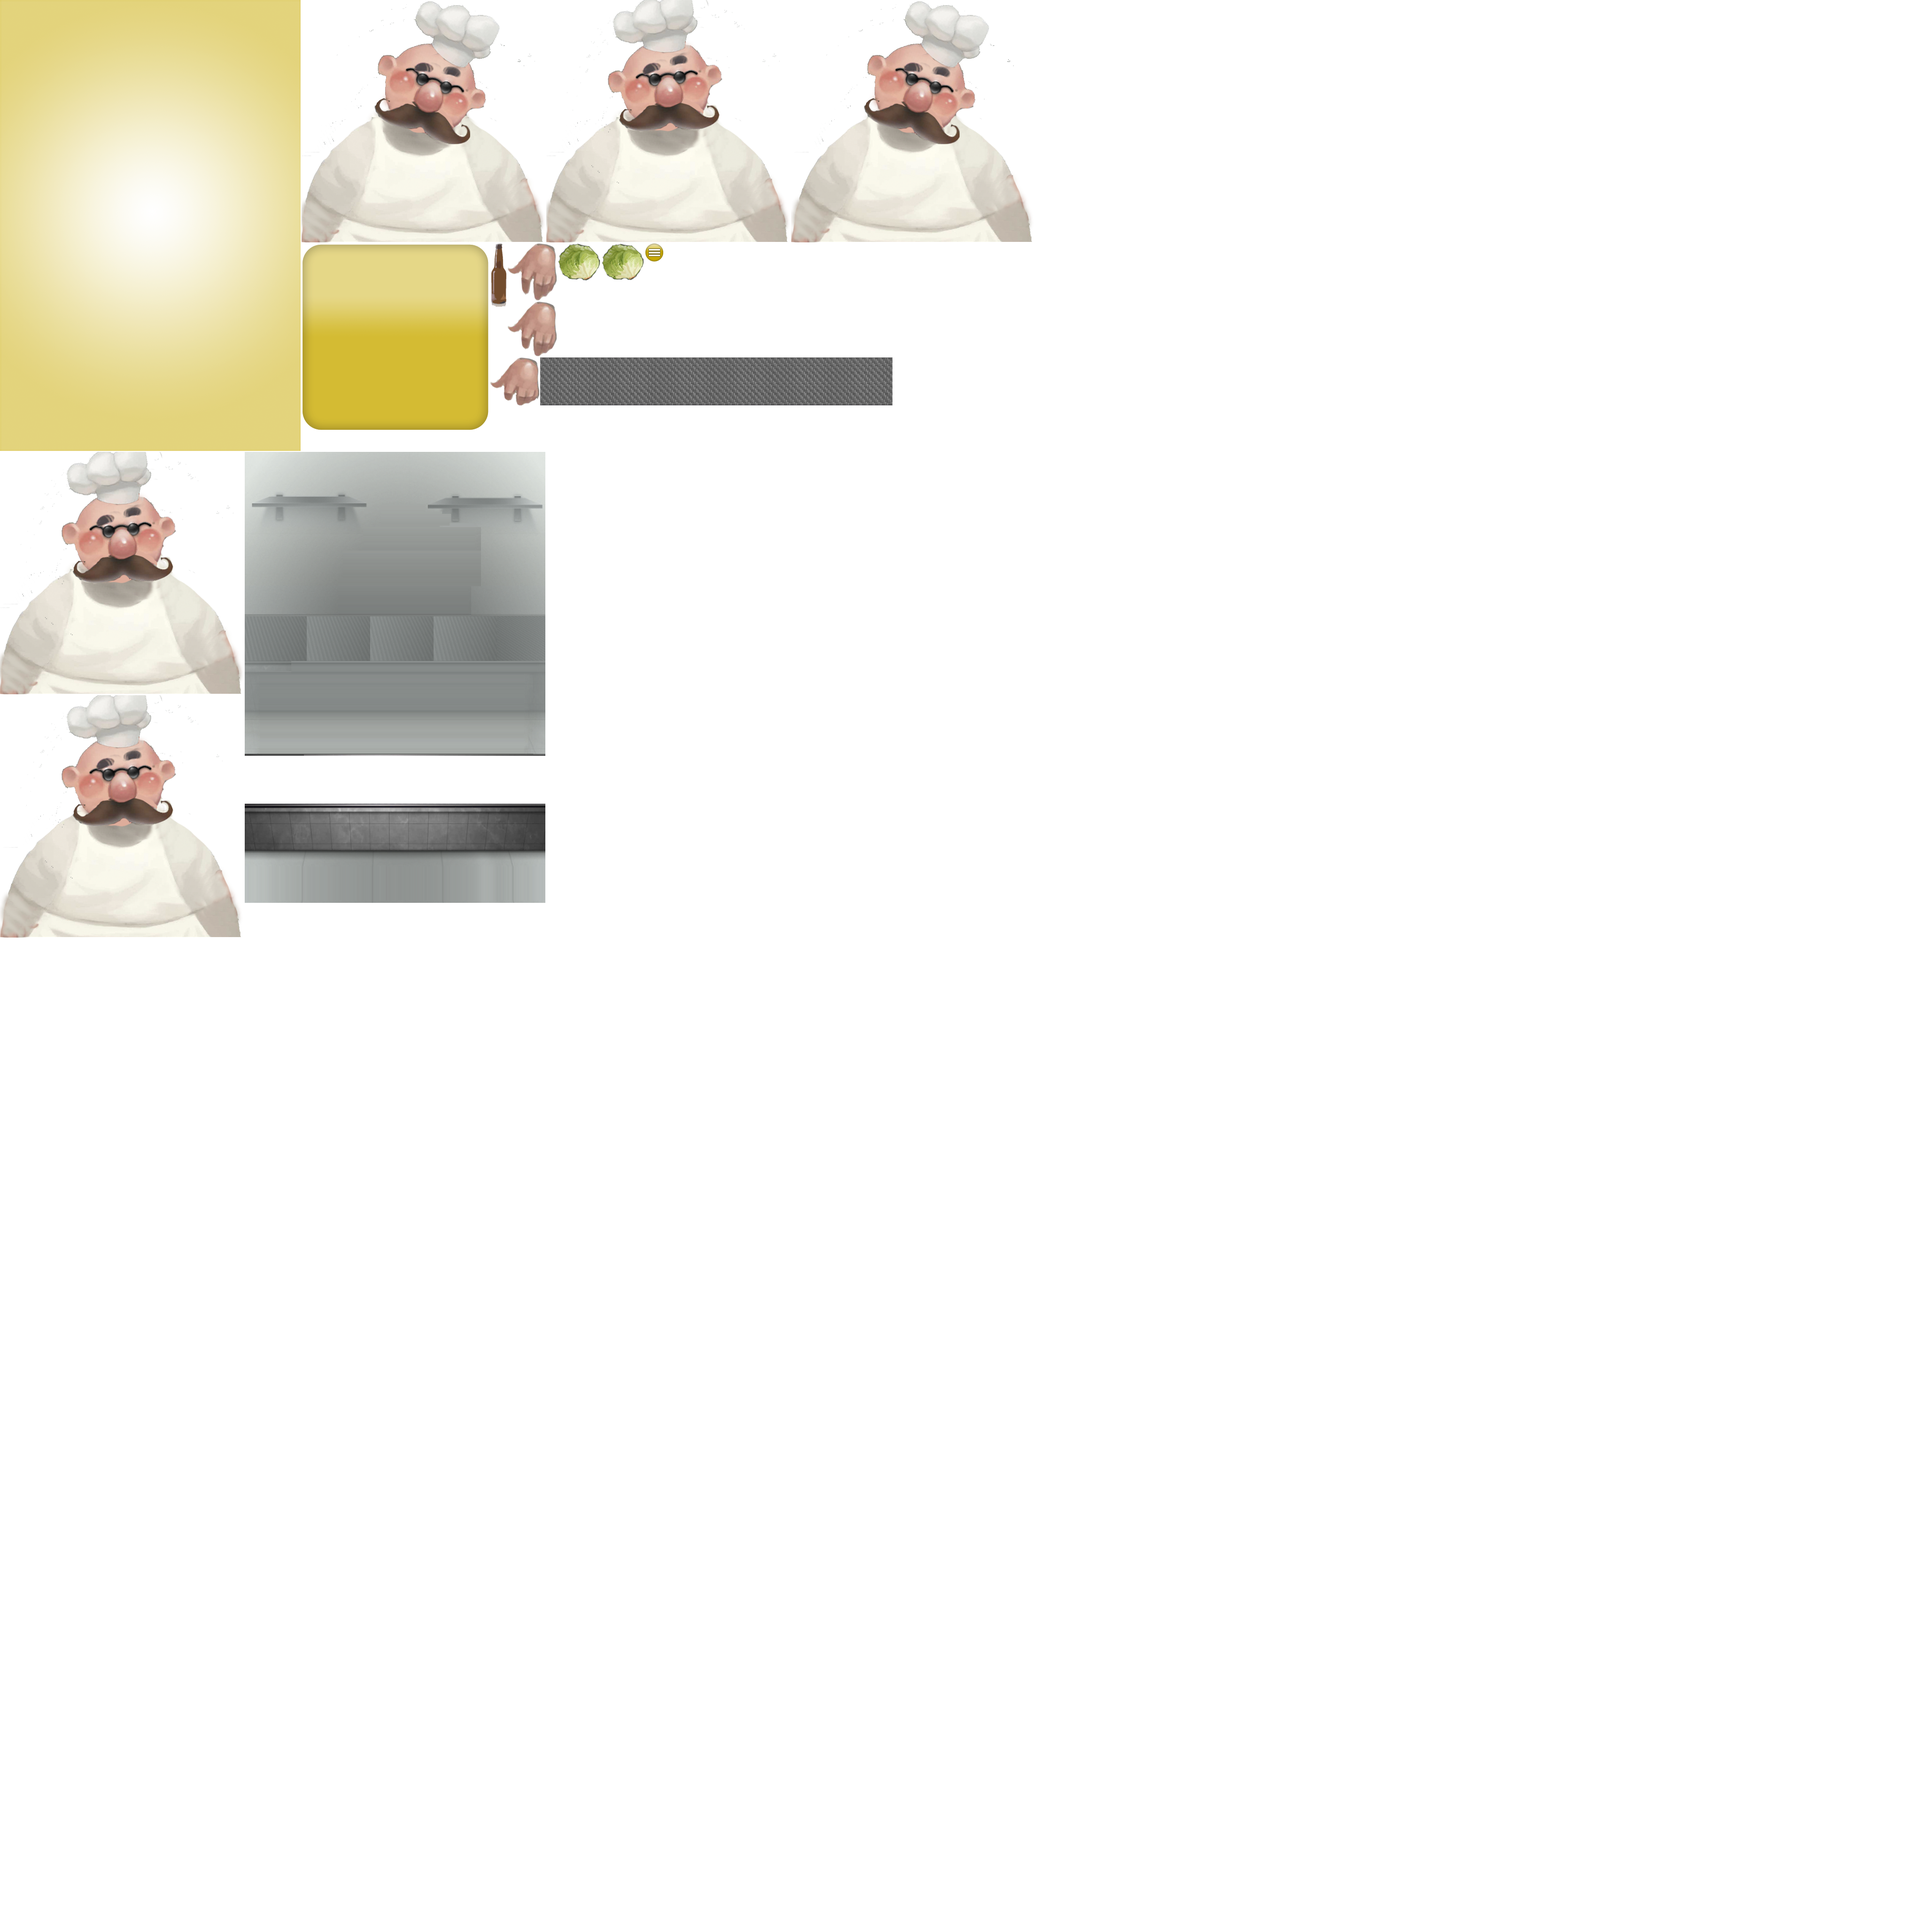
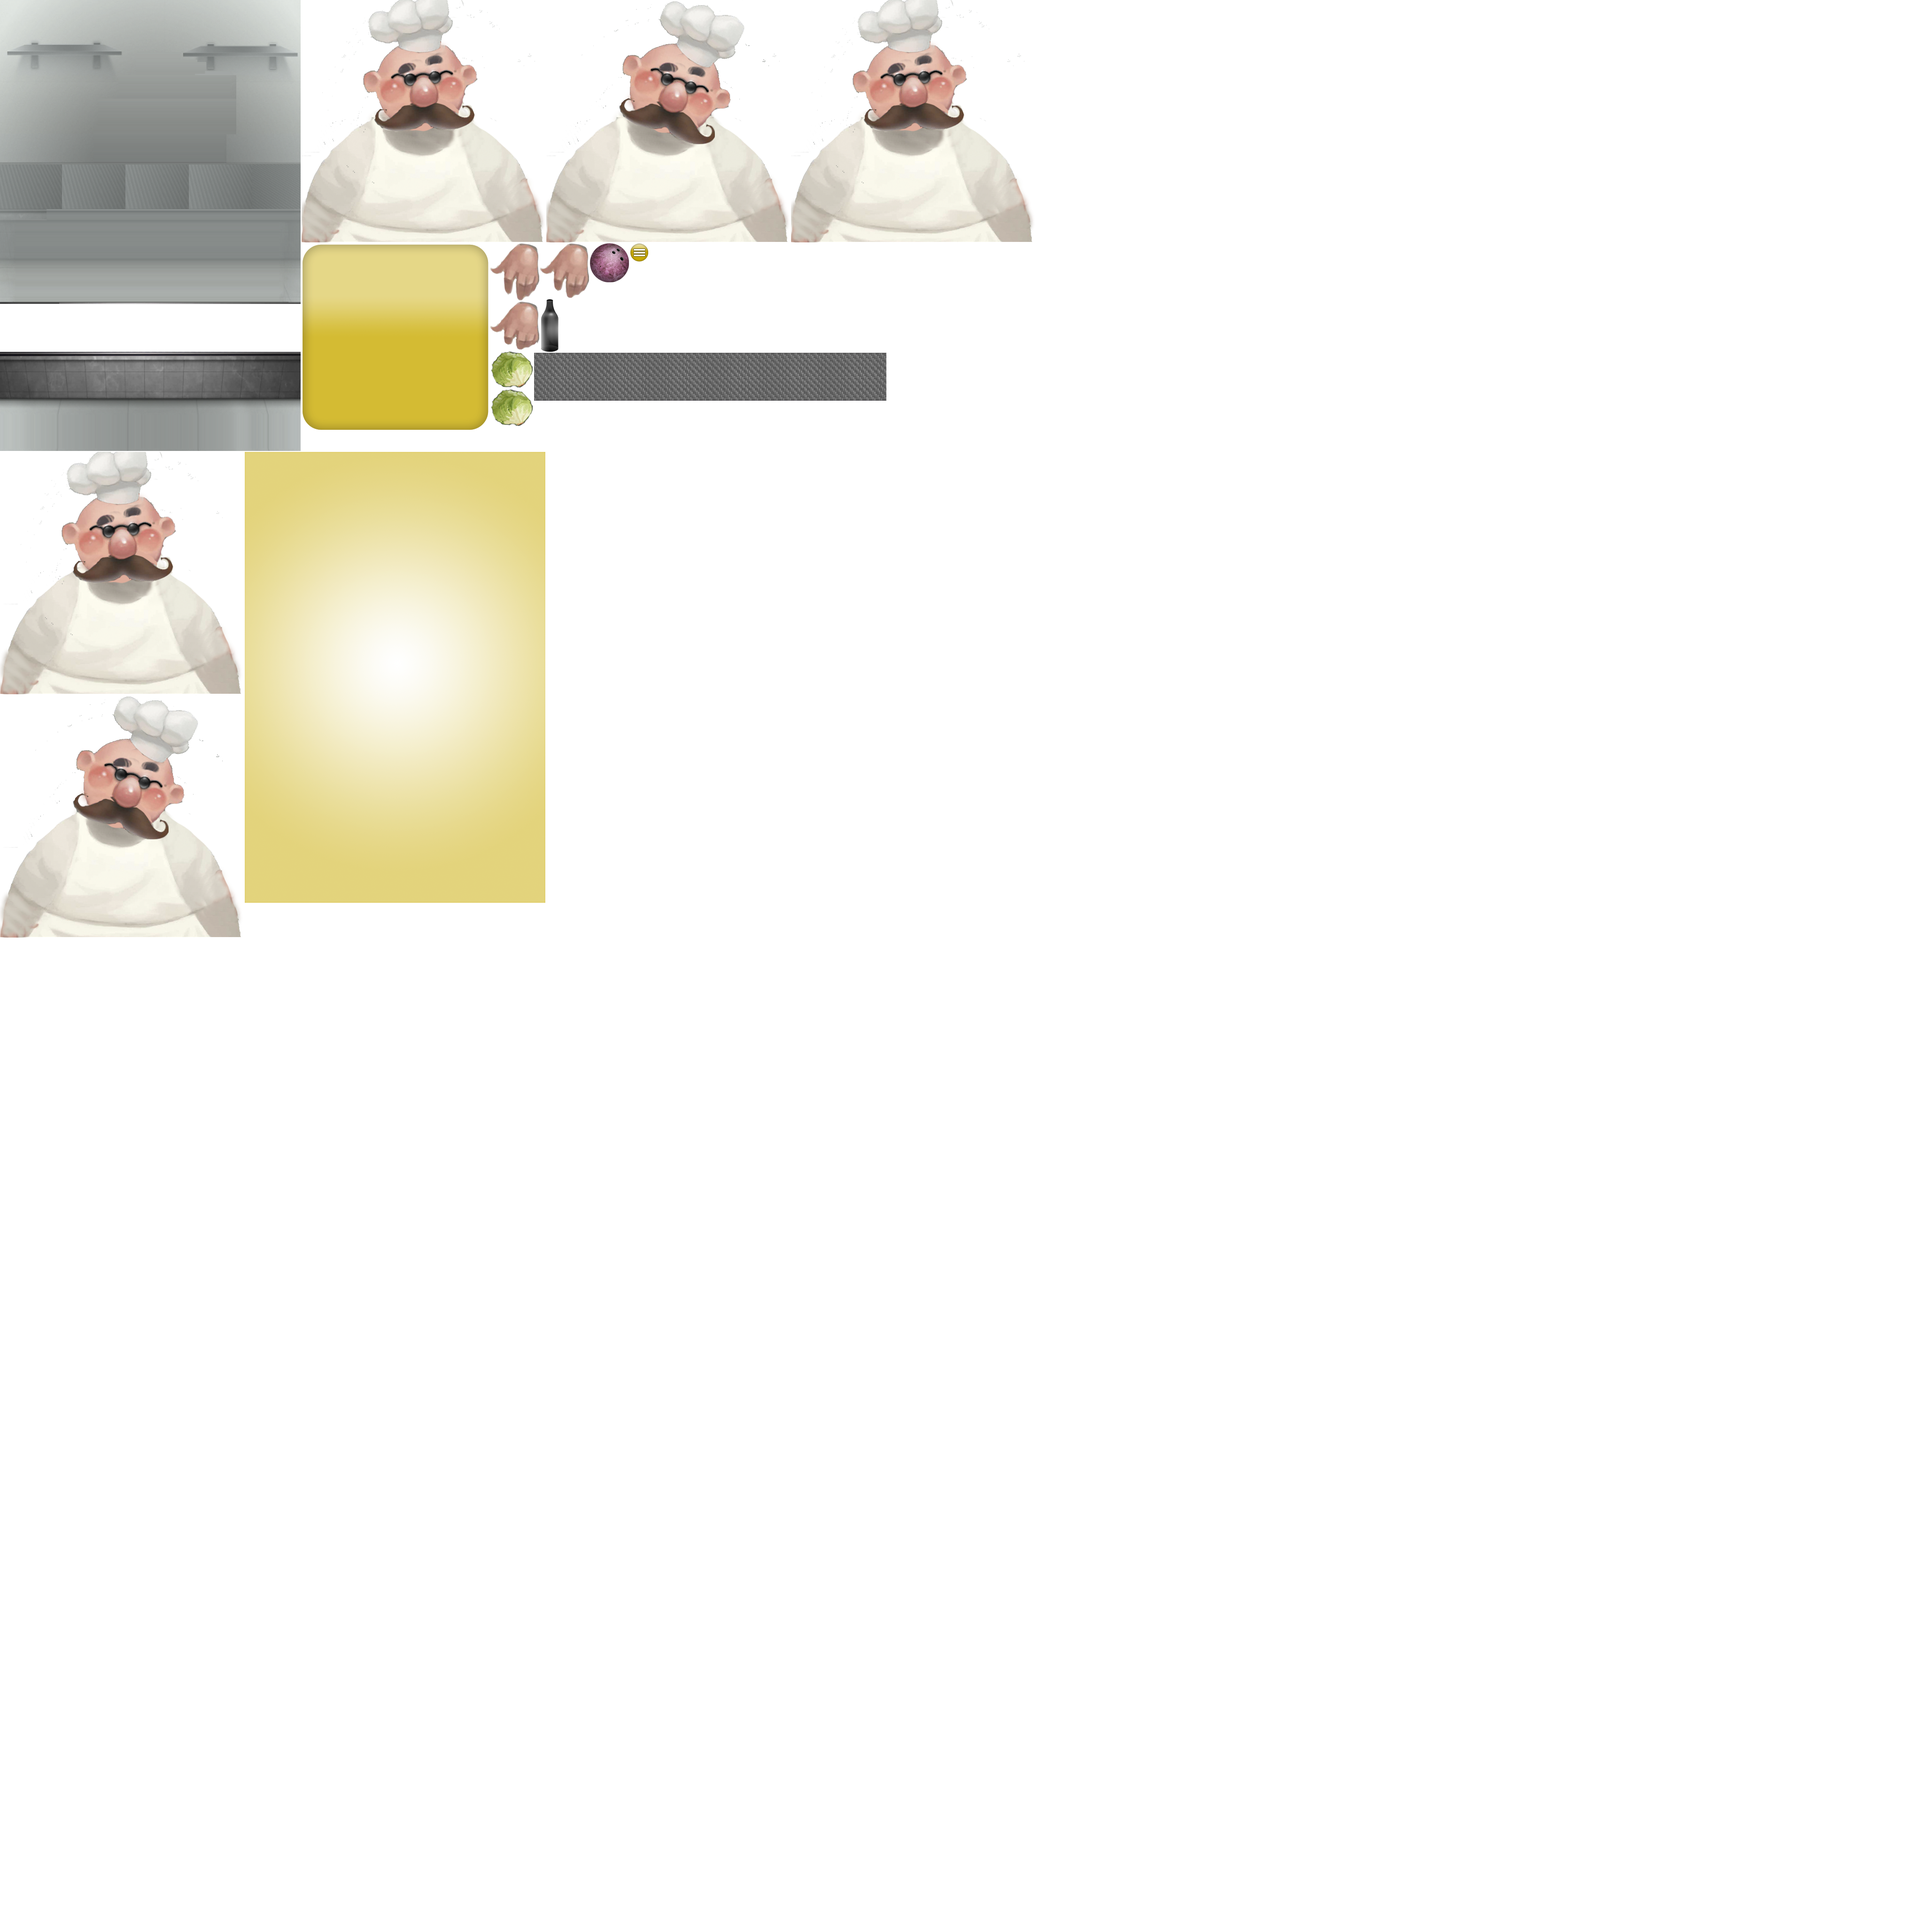
Bowling ball added;

diff --git a/common/ui/menu/GameMenu.cpp b/common/ui/menu/GameMenu.cpp
@@ -66,7 +66,7 @@ void GameMenu::initializeMenu() {
     yPosStartGrab = conv->getContentSize().width/2;
     yPosCheckGrab = yPosStartGrab + 100;
     
-    Item* item = ItemFactory::createItem(0, 0);
+    Item* item = ItemFactory::createItem(1, 1);
     //Gabbage* foodItem = Gabbage::create();
     item->setPosition(Vec2(visibleSize.width + origin.x, -100));
     //conv->addChild(foodItem);
@@ -89,7 +89,7 @@ void GameMenu::update(float dt) {
     if (lastCreatedItem >= nextItemDt) {
         int posOffset = getRandomNumber(1, 3);
         int offset = posOffset == 1 ? 20 : (posOffset == 2 ? 50 : 100);
-        Item* item = ItemFactory::createItem(getRandomNumber(0, 1), 0);
+        Item* item = ItemFactory::createItem(getRandomNumber(0, 1), getRandomNumber(0, 1));
         item->setPosition(Vec2(visibleSize.width + origin.x, -1 * offset));
         conv->addChild(item, 10);
         

diff --git a/common/ui/objects/items/garbage/GarbageFactory.cpp b/common/ui/objects/items/garbage/GarbageFactory.cpp
@@ -1,6 +1,7 @@
 
 #include "GarbageFactory.h"
 #include "Bottle.h"
+#include "BowlingBall.h"
 
 Garbage* GarbageFactory::createGarbage(int garbage_type)
 {
@@ -12,10 +13,15 @@ Garbage* GarbageFactory::createGarbage(int garbage_type)
             garbage = Bottle::create();
             break;
         }
+        case kGarbageBowlingBall:
+        {
+            garbage = BowlingBall::create();
+            break;
+        }
             
         default:
         {
-            garbage = NULL;
+            garbage = Bottle::create();
             break;
         }
     }

diff --git a/common/ui/objects/items/garbage/BowlingBall.cpp b/common/ui/objects/items/garbage/BowlingBall.cpp
@@ -1,0 +1,30 @@
+
+#include "BowlingBall.h"
+
+USING_NS_CC;
+
+BowlingBall* BowlingBall::create()
+{
+    BowlingBall *pRet = new BowlingBall();
+    if (pRet && pRet->init())
+    {
+        pRet->autorelease();
+        return pRet;
+    }
+    else
+    {
+        delete pRet;
+        pRet = NULL;
+        return NULL;
+    }
+}
+
+bool BowlingBall::init() {
+    
+    if(!super::init("bowling_ball_1.png", "bowling_ball_%i.png", 1, 0.2)) {
+        return false;
+    }
+    
+    
+    return true;
+}

diff --git a/common/ui/objects/items/garbage/BowlingBall.h b/common/ui/objects/items/garbage/BowlingBall.h
@@ -1,0 +1,17 @@
+
+#ifndef __BlindChef__BowlingBall__
+#define __BlindChef__BowlingBall__
+
+#include "cocos2d.h"
+#include "Garbage.h"
+
+class BowlingBall : public Garbage {
+private:
+    typedef Garbage super;
+public:
+    static BowlingBall* create();
+    
+    bool init();
+};
+
+#endif /* defined(__BlindChef__BowlingBall__) */

diff --git a/common/ui/objects/items/food/FoodFactory.cpp b/common/ui/objects/items/food/FoodFactory.cpp
@@ -15,7 +15,7 @@ Food* FoodFactory::createFood(int food_type)
         
         default:
         {
-            food = NULL;
+            food = Gabbage::create();
             break;
         }
     }

diff --git a/common/ui/objects/items/garbage/GarbageFactory.h b/common/ui/objects/items/garbage/GarbageFactory.h
@@ -7,7 +7,8 @@
 
 enum
 {
-    kGarbageBottle = 0
+    kGarbageBottle = 0,
+    kGarbageBowlingBall
 };
 
 class GarbageFactory {
